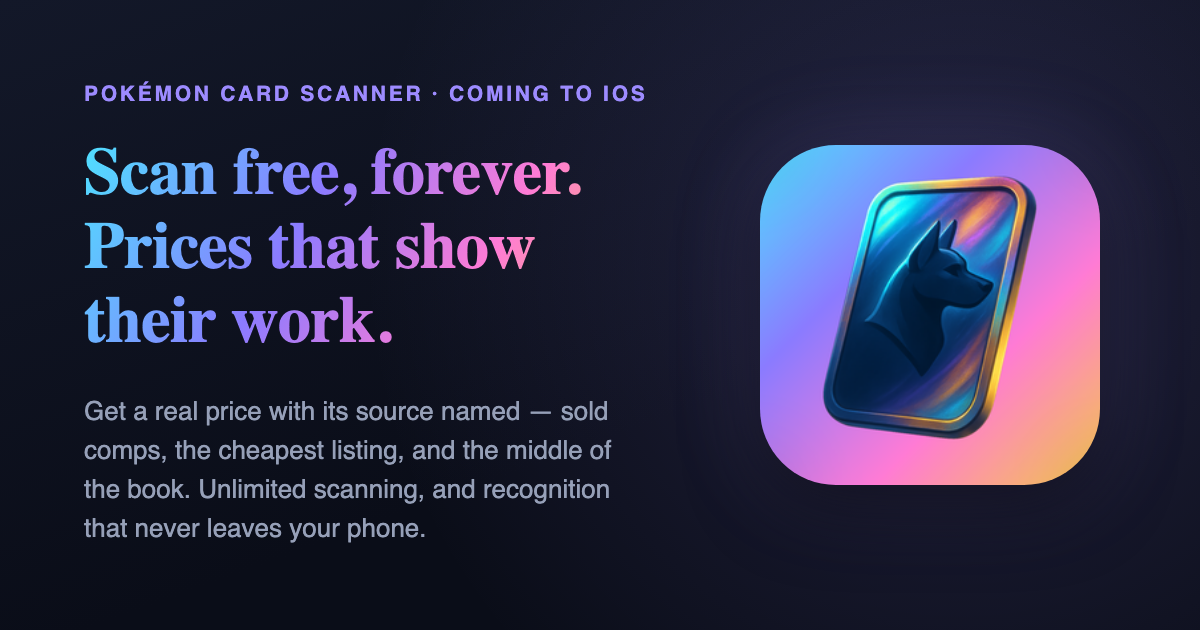
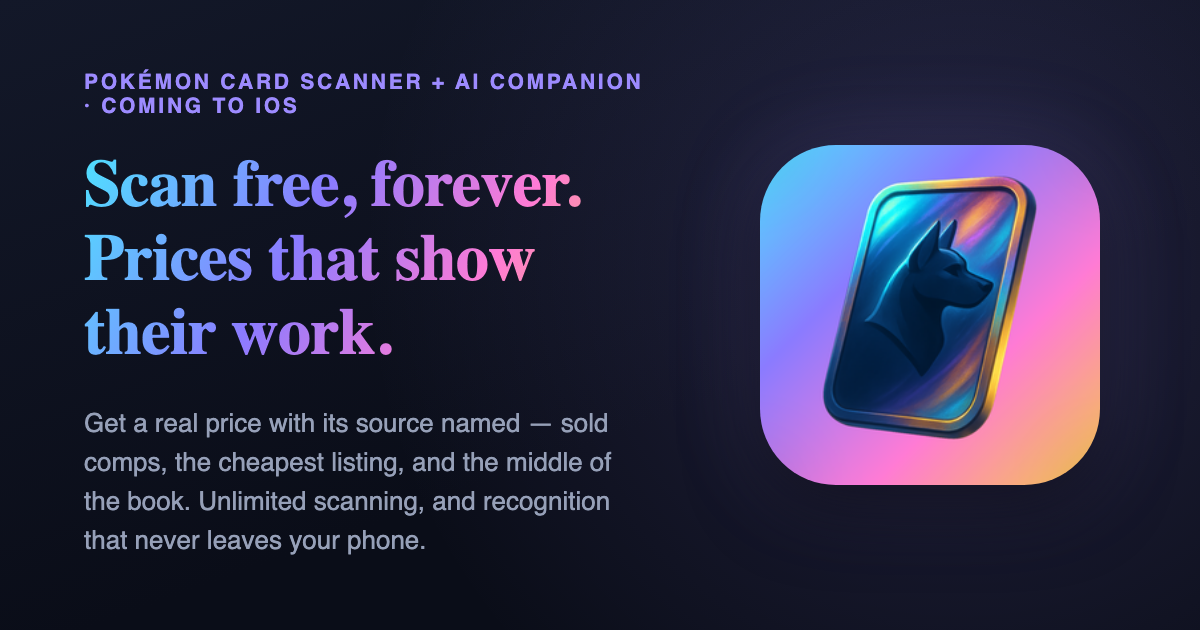
Holohound: the page never said AI anywhere it's discovered
Vanus: "the website doesnt sell the ai or its features." Checked every spot a
visitor actually reads before clicking in, and he was right at each one:

- Title, meta description, og:title, og:description: no mention of AI or
  Hound anywhere. The JSON-LD block already said "AI flipping companion" —
  the visible meta that search results and link previews actually show
  never matched it.
- Hero eyebrow, the first line on the page: "Pokémon card scanner ·
  In development." No hint an AI companion feature exists at all.
- Feature grid: Hound was the 5th of 6 cards, after scanning, pricing,
  grading and set-completion — a flagship differentiator positioned as an
  afterthought.
- FAQ: Hound's only extended description on the entire page was an answer
  to "What does Hound see when I ask it something?" — a privacy-scoped
  question whose answer opens with "Hound is not switched on in the current
  build." Nowhere sold what it does; the one place it was explained led
  with the limitation.

Fixed without weakening any honesty guarantee already on this page:

- Title/og/twitter: "Holohound — real prices, and an AI that knows your
  binder." Meta description now names Hound.
- Hero eyebrow: "Pokémon card scanner + AI companion · In development" —
  same "In development" disclosure the whole page already carries, now
  covering what it's disclosing.
- Feature grid: moved Hound to 2nd position, right after the free-scanning
[…]

Changed region(s): [[0.0617, 0.2111, 0.4933, 0.573], [0.0617, 0.6333, 0.5242, 0.8746], [0.0617, 0.0905, 0.555, 0.181]]

diff --git a/holohound/index.html b/holohound/index.html
@@ -3,19 +3,19 @@
 <head>
 <meta charset="utf-8">
 <meta name="viewport" content="width=device-width,initial-scale=1">
-<title>Holohound — know what your cards are actually worth</title>
-<meta name="description" content="Scan a Pokémon card, get a real price with its source named, and track your binder. Unlimited free scanning, on-device recognition, no account.">
+<title>Holohound — real prices, and an AI that knows your binder</title>
+<meta name="description" content="Scan a Pokémon card, get a real price with its source named, and track your binder — with Hound, an AI companion who already knows what’s in it. Unlimited free scanning, no account.">
 <link rel="canonical" href="https://hypersage.ai/holohound/">
-<meta property="og:title" content="Holohound — know what your cards are actually worth">
-<meta property="og:description" content="Scan a Pokémon card, get a real price with its source named, and track your binder. Unlimited free scanning, on-device recognition, no account.">
+<meta property="og:title" content="Holohound — real prices, and an AI that knows your binder">
+<meta property="og:description" content="Scan a Pokémon card, get a real price with its source named, and track your binder — with Hound, an AI companion who already knows what’s in it. Unlimited free scanning, no account.">
 <meta property="og:url" content="https://hypersage.ai/holohound/">
 <meta property="og:type" content="website">
 <meta property="og:site_name" content="HyperSage">
-<meta property="og:image" content="https://hypersage.ai/holohound/og-image.png?v=20260818a">
+<meta property="og:image" content="https://hypersage.ai/holohound/og-image.png?v=20260818c">
 <meta property="og:image:width" content="1200">
 <meta property="og:image:height" content="630">
 <meta name="twitter:card" content="summary_large_image">
-<meta name="twitter:image" content="https://hypersage.ai/holohound/og-image.png?v=20260818a">
+<meta name="twitter:image" content="https://hypersage.ai/holohound/og-image.png?v=20260818c">
 <meta name="color-scheme" content="light dark">
 <meta name="theme-color" content="#F5F6FB" media="(prefers-color-scheme: light)">
 <meta name="theme-color" content="#0A0D18" media="(prefers-color-scheme: dark)">
@@ -68,7 +68,7 @@
   <div class="container">
     <div class="hero-layout">
       <div class="hero-text">
-        <span class="hero-eyebrow">Pokémon card scanner · In development</span>
+        <span class="hero-eyebrow">Pokémon card scanner + AI companion · In development</span>
         <h1>Scan free, forever.<br>Prices that show their work.</h1>
         <p class="lede">Scan a card and get a real price with its source named — sold comps, the
         cheapest listing, and the middle of the book, not one number pretending to be all
@@ -125,6 +125,13 @@
         device.</p>
       </div>
       <div class="feature">
+        <h3>Hound: an AI companion that knows your binder.</h3>
+        <p>Ask what you're missing, what's worth flipping, or what a card is really worth.
+        Hound answers with your own collection as context and names its sources — something no
+        Pokémon-tracking app currently ships. Not switched on in this build yet; the FAQ below
+        says exactly what that means today.</p>
+      </div>
+      <div class="feature">
         <h3>Prices come with receipts.</h3>
         <p>Market price, the cheapest current listing, and the middle of the book — from
         TCGplayer via TCGdex, dated and sourced. Sold-price history isn't connected yet, and
@@ -141,12 +148,6 @@
         <p>Every printing counted — secrets and reverses included — what's missing, and what
         finishing it would actually cost, with a straight line to Hound to watch the prices for
         you.</p>
-      </div>
-      <div class="feature">
-        <h3>Hound: an AI companion that knows your binder.</h3>
-        <p>Ask what you're missing, what's worth flipping, or what a card is really worth.
-        Hound answers with your own collection as context and names its sources — something no
-        Pokémon-tracking app currently ships.</p>
       </div>
       <div class="feature">
         <h3>No streaks. No guilt. No noise.</h3>
@@ -266,11 +267,17 @@
         CSV export is free if you want a copy of your own.</p>
       </details>
       <details class="faq">
+        <summary>What is Hound, and can I use it now?</summary>
+        <p>Hound is the AI companion built into your binder — ask what you're missing from a
+        set, what's worth flipping, or what a card is really worth, and it answers using your
+        own collection as context, sources named. <strong>It isn't switched on in this build
+        yet</strong>: today its replies are pre-written examples so you can see the shape of it,
+        not a live model. This page and the privacy policy update the day that changes.</p>
+      </details>
+      <details class="faq">
         <summary>What does Hound see when I ask it something?</summary>
-        <p>Your message plus the specific card rows relevant to the question — not your whole
-        binder, and no account is created to enable it. Hound is not switched on in the current
-        build; its replies there are pre-written examples, and this page and the privacy policy
-        will update the day that changes.</p>
+        <p>Once it's live: your message plus the specific card rows relevant to the question —
+        not your whole binder, and no account is created to enable it.</p>
       </details>
       <details class="faq">
         <summary>How is a pre-grade different from a real grade?</summary>

diff --git a/tools/build_app_og.py b/tools/build_app_og.py
@@ -413,7 +413,7 @@ CARDS = {
   .art { width: 340px; height: 340px; border-radius: 76px;
          box-shadow: 0 24px 70px rgba(0,0,0,0.55), 0 0 90px rgba(157,139,255,0.22); }
 """,
-        "kicker": "Pok\u00e9mon card scanner \u00b7 Coming to iOS",
+        "kicker": "Pok\u00e9mon card scanner + AI companion \u00b7 Coming to iOS",
         "h1": "Scan free, forever.<br>Prices that show their work.",
         "sub": "Get a real price with its source named \u2014 sold comps, the cheapest listing, and the middle of the book. Unlimited scanning, and recognition that never leaves your phone.",
     },
